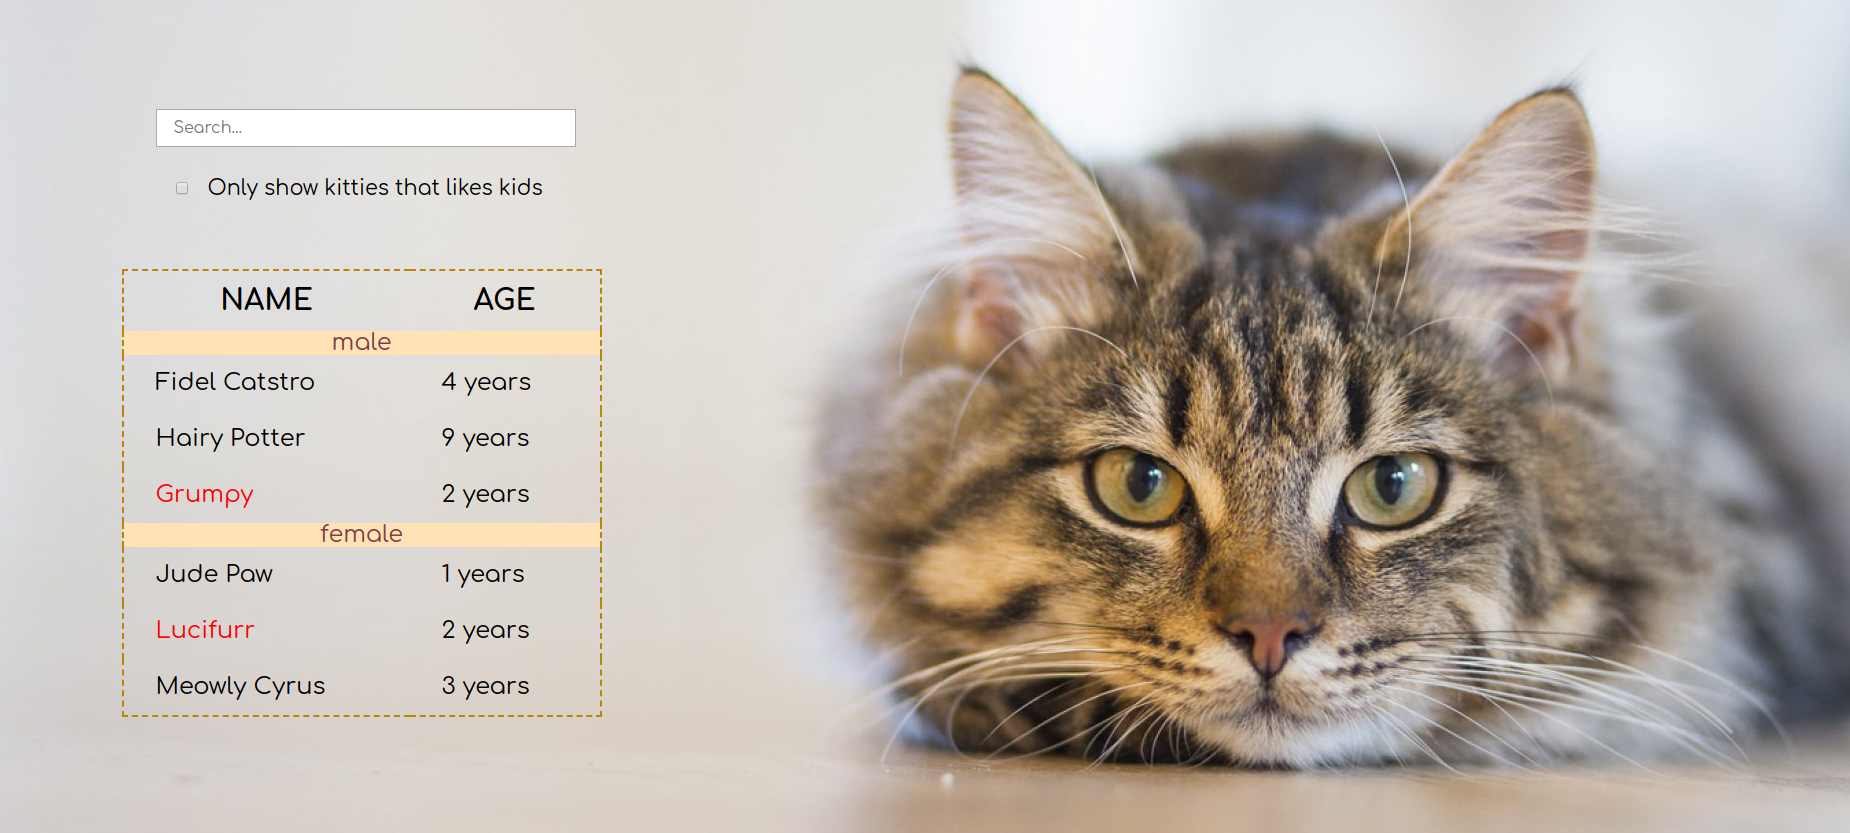
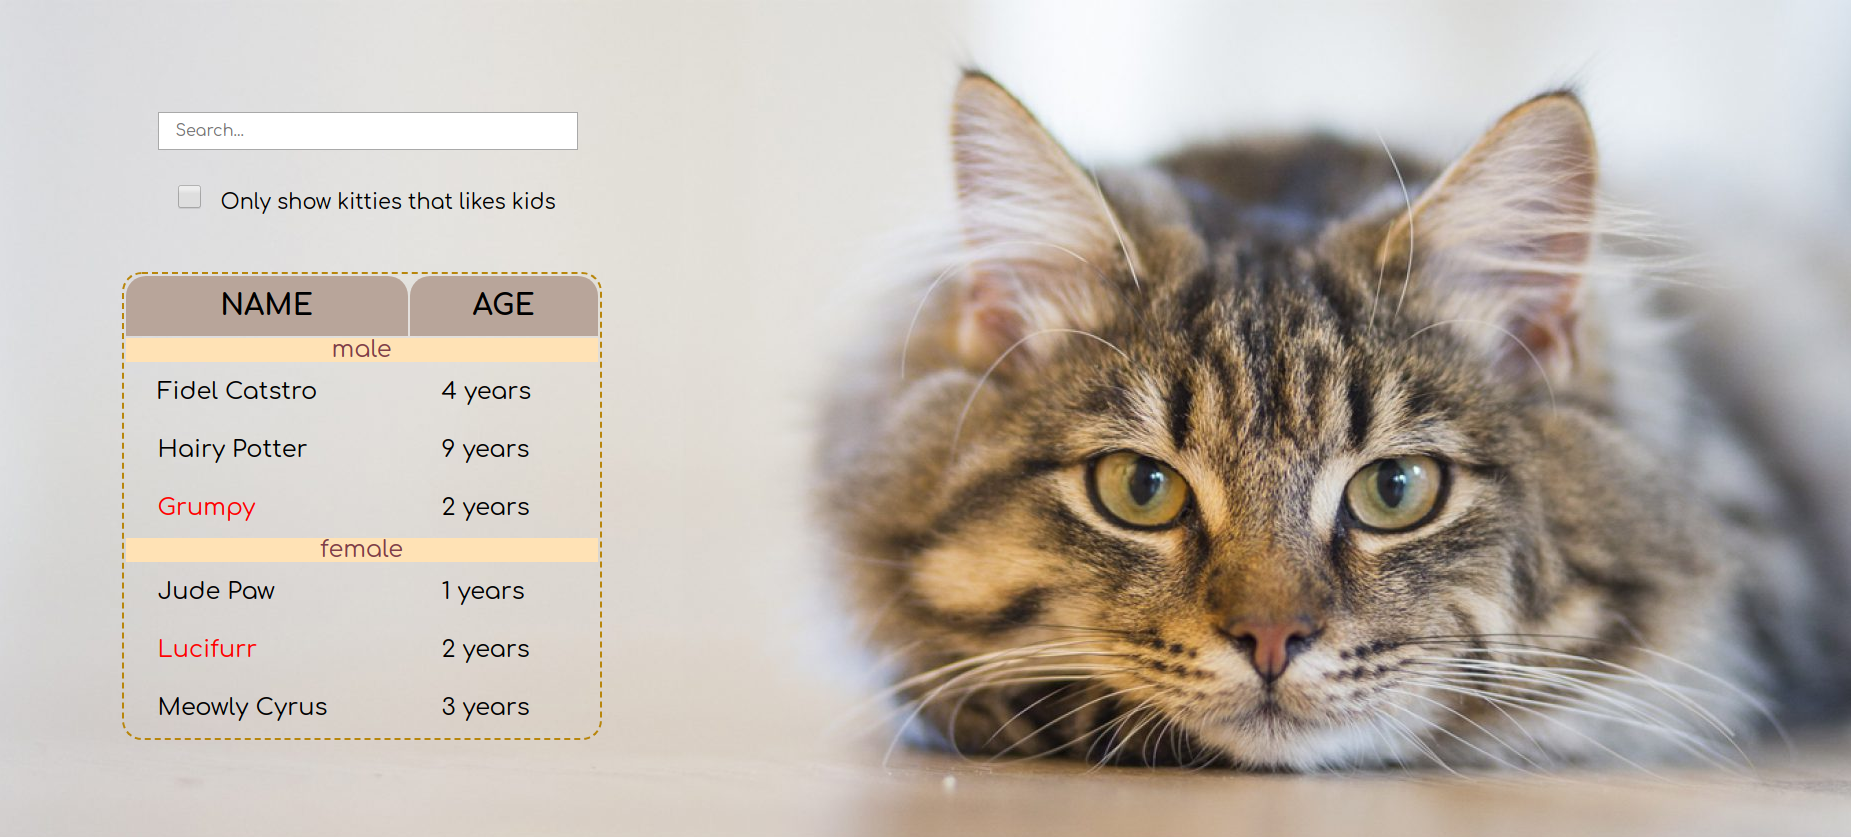
Minor errors fixed

diff --git a/src/js/app.js b/src/js/app.js
@@ -14,13 +14,13 @@ const kitties = [
 
 class SearchBar extends Component {
 
-    handlerCheckBox = () => {
+    handleCheckBox = () => {
         if (typeof this.props.changeBox === 'function') {
             this.props.changeBox();
         }
     };
 
-    handlerSearch  = (event) => {
+    handleSearch  = (event) => {
         if (typeof this.props.filterText === 'function') {
             this.props.filterText(event.target.value);
         }
@@ -28,9 +28,9 @@ class SearchBar extends Component {
 
     render() {
         return <form>
-            <input type = 'text' placeholder = "Search..." onChange = {this.handlerSearch}/>
+            <input type = 'text' placeholder = "Search..." onChange = {this.handleSearch} value={this.props.filter}/>
             <p>
-                <input type = 'checkbox' checked = {this.props.likesKids} onChange = {this.handlerCheckBox}/>
+                <input type = 'checkbox' checked = {this.props.likesKids} onChange = {this.handleCheckBox}/>
                 <span>Only show kitties that likes kids</span>
             </p>
         </form>
@@ -45,12 +45,12 @@ class CatTable extends Component {
         let filters = this.props.filter;
         let checkBox = this.props.likesKids;
 
-        this.props.kitties.forEach(function(kitty) {
+        this.props.kitties.forEach((kitty) => {
             if(kitty.category !== lastCategory) {
-                rows.push(<CatCategoryRow category = {kitty.category} key = {kitty.category} />);
+                rows.push(<CatCategoryRow category={kitty.category} key={kitty.category} />);
             }
 
-            if(((kitty.name.includes(filters) && filters.length > 2) || filters.length < 3) && (kitty.likesKids === true || checkBox === false)) {
+            if(((kitty.name.includes(filters))) && (kitty.likesKids === true || checkBox === false)) {
                 rows.push(<CatRow kitty = {kitty} key = {kitty.name} />);
             }
 
@@ -73,9 +73,11 @@ class CatTable extends Component {
 
 class CatCategoryRow extends React.Component {
     render() {
-        return <tr>
-            <th colSpan="2" className="tableHeader"> {this.props.category}</th>
-        </tr>
+        return (
+            <tr>
+                <th colSpan="2" className="tableHeader">{this.props.category}</th>
+            </tr>
+        )
     }
 }
 
@@ -114,6 +116,7 @@ class App extends Component {
     };
 
     render() {
+
         return <div className="appBox">
             <img src={catPhoto} alt="kot"/>
             <SearchBar filter = {this.state.filterText} likesKids = {this.state.likesKids}

diff --git a/src/sass/layout/_style.scss b/src/sass/layout/_style.scss
@@ -24,6 +24,11 @@
       font-size: 1.3rem;
       padding-left: 1rem;
 
+      input[type="checkbox"] {
+        width: 1.5rem;
+        height: 1.5rem;
+      }
+
       span {
         padding-left: 1rem;
       }
@@ -39,9 +44,11 @@
     top: 17rem;
     right: 20rem;
     width: 30rem;
-    height: 20rem;
     border: 2px dashed darkgoldenrod;
     font-size: 1.5rem;
+    border-collapse: separate;
+    border-spacing: 2px;
+    border-radius: 20px;
   }
 
   .tableHeader {
@@ -54,10 +61,14 @@
     font-size: 1.8rem;
     text-transform: uppercase;
     font-weight: bold;
+    background-color: #b8a59a;
 
     th {
+      border-top-left-radius: 20px;
+      border-top-right-radius: 20px;
       padding: 1rem 0;
       width: 60%;
+      height: 100%;
     }
   }
 
